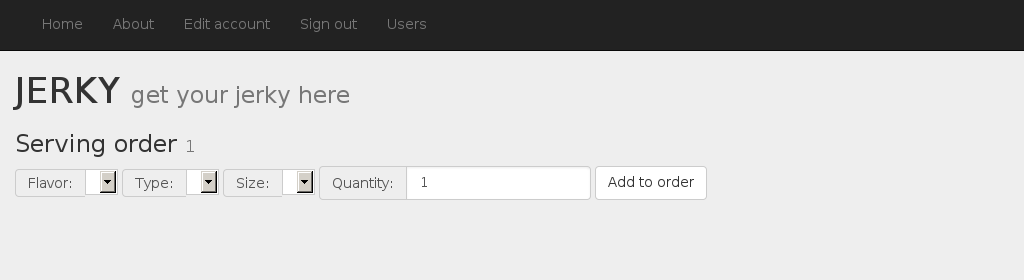
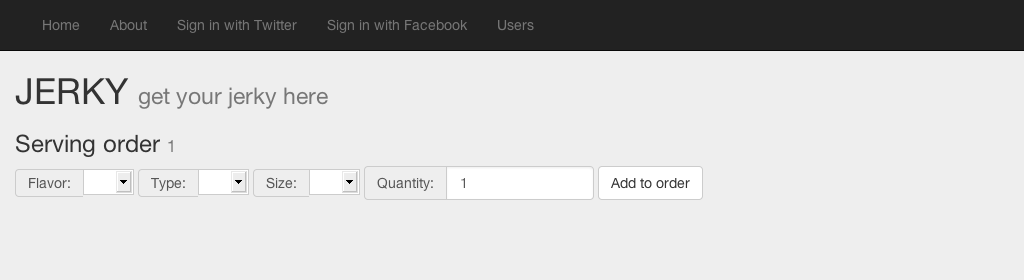
twitter auth working

diff --git a/app/controllers/sessions_controller.rb b/app/controllers/sessions_controller.rb
@@ -1,21 +1,22 @@
 class SessionsController < ApplicationController
   def new
+    redirect_to '/'
   end
 
   def create
-    @user = User.find_or_create_from_auth_hash(auth_hash)
-    if @user
-      self.current_user = @user
-      flash[:success] = "Thanks for logging in!"
-      redirect_to '/'
+    user = User.find_by_provider_and_uid(auth_hash["provider"], auth_hash["uid"]) || User.create_with_omniauth(auth_hash)
+    if user
+      session[:user_id] = user.id
+      redirect_to '/', notice: "Thanks for logging in!"
     else
       flash[:error] = "There was a problem logging in. Give it another try or hit the help button."
-      render action: 'new'
+      #render action: 'new'
     end
   end
 
-  def create
-
+  def destroy
+      session[:user_id] = nil
+      redirect_to '/', notice: "Thanks for logging out!"
   end
 
   protected

diff --git a/db/schema.rb b/db/schema.rb
@@ -11,7 +11,7 @@
 #
 # It's strongly recommended that you check this file into your version control system.
 
-ActiveRecord::Schema.define(version: 20140816021413) do
+ActiveRecord::Schema.define(version: 20140816041252) do
 
   create_table "carts", force: true do |t|
     t.integer  "user_id"
@@ -82,6 +82,9 @@ ActiveRecord::Schema.define(version: 20140816021413) do
     t.string   "password_digest"
     t.datetime "created_at"
     t.datetime "updated_at"
+    t.string   "uid"
+    t.string   "provider"
+    t.string   "name"
   end
 
   add_index "users", ["email"], name: "index_users_on_email", using: :btree

diff --git a/config/initializers/omniauth.rb b/config/initializers/omniauth.rb
@@ -1,5 +1,5 @@
 Rails.application.config.middleware.use OmniAuth::Builder do
- # provider :developer unless Rails.env.production?
-  provider :twitter, ENV['TWITTER_KEY'], ENV['TWITTER_SECRET']
-  provider :facebook, ENV['FACEBOOK_KEY'], ENV['FACEBOOK_SECRET']
+  provider :developer unless Rails.env.production?
+  provider :twitter, 'mbdSIYkKsfPccwMtKijEHBZcp', 'bMpITuWo3ZGn3csMHXM4rwMhDZ93CMfqeibnvkfYIOEoU0gyNS'
+  provider :facebook, ENV['FACEBOOK_KEY'], ENV['FACEBOOK_SECRET'], scope: 'email', display: 'popup'
 end

diff --git a/app/models/user.rb b/app/models/user.rb
@@ -1,8 +1,21 @@
 class User < ActiveRecord::Base
   #has_secure_password
 
-  def self.find_or_create_from_auth_hash
+  def self.find_or_create_from_auth_hash (auth)
 
+    #find_by_auth_hash(hash)
+    self.create_with_omniauth(auth)
+  end
 
+  def self.find_by_auth_hash (auth)
+
+  end
+
+  def self.create_with_omniauth (auth)
+    create! do |user|
+      user.provider = auth["provider"]
+      user.email = auth["email"]
+      user.uid = auth["uid"]
+    end
   end
 end

diff --git a/app/controllers/application_controller.rb b/app/controllers/application_controller.rb
@@ -2,4 +2,10 @@ class ApplicationController < ActionController::Base
   # Prevent CSRF attacks by raising an exception.
   # For APIs, you may want to use :null_session instead.
   protect_from_forgery with: :exception
+  helper_method :current_user
+
+  def current_user
+    @current_user ||= User.find(session[:user_id]) if session[:user_id]
+  end
 end
+

diff --git a/config/routes.rb b/config/routes.rb
@@ -1,6 +1,7 @@
 Rails.application.routes.draw do
 
-  get '/auth/:provider/callback', to: 'sessions#create'
+  match '/auth/:provider/callback', to: 'sessions#create', via: [:get, :post]
+  match '/signout', to: 'sessions#destroy', via: [:get], as: :signout
 
   root to: 'orders#index'
 

diff --git a/db/migrate/20140816041252_add_fields_to_user.rb b/db/migrate/20140816041252_add_fields_to_user.rb
@@ -1,0 +1,7 @@
+class AddFieldsToUser < ActiveRecord::Migration
+  def change
+    add_column :users, :uid, :string
+    add_column :users, :provider, :string
+    add_column :users, :name, :string
+  end
+end
